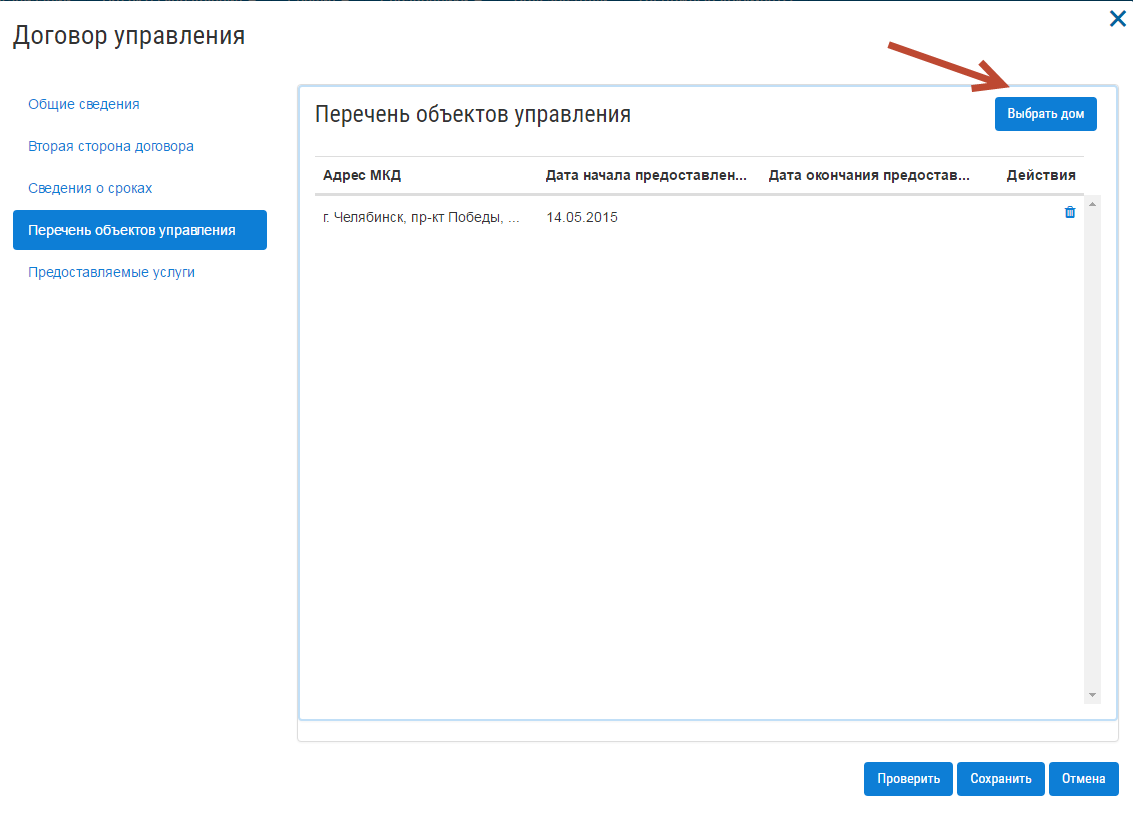
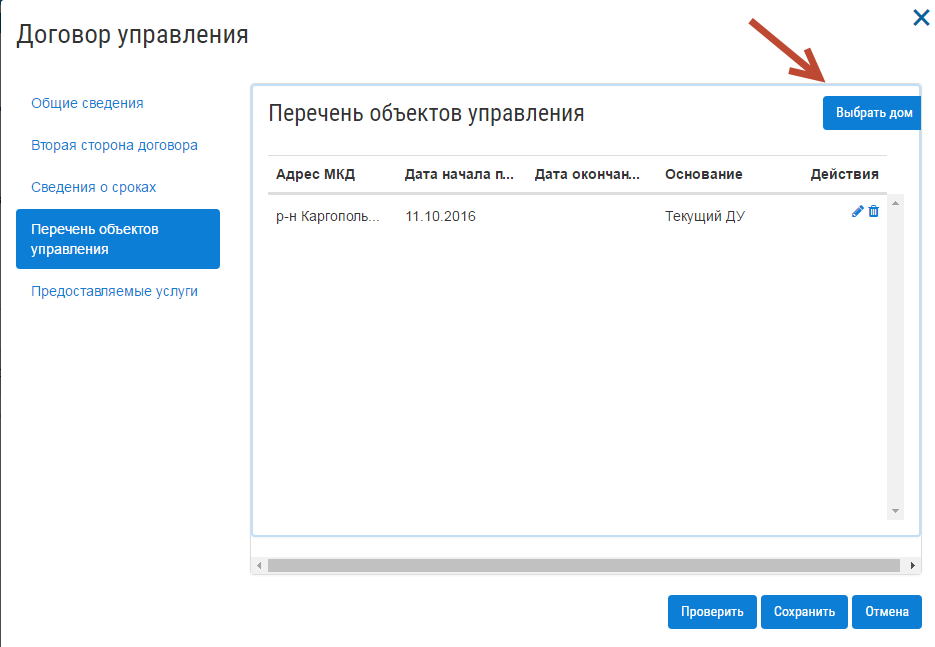
release-1.3

diff --git a/docs/source/04-management-agreements/4.1.rst b/docs/source/04-management-agreements/4.1.rst
@@ -272,8 +272,11 @@
 3. Заполнить поля. Прикрепить документы договора управления в блоке «Договор на уравление и приложения». Для добавления дополнительных соглашений, прикрепить документы в блоке «Дополнительное соглашение». 
 Добавленные дополнительные соглашения, появятся в списке при выборе основания предоставления услуг. 
 
-4. На вкладке «Перечень объектов управления» нажать кнопку «Выбрать дом» для того, чтобы прикрепить многоквартирный дом/дома, которые относятся к создаваемому договору управления. 
 
+4. На вкладке «Перечень объектов управления» нажать кнопку «Выбрать дом» для того, чтобы прикрепить многоквартирный дом/дома, которые относятся к создаваемому договору управления. 
+При добавлении договора управления, необходимо указать основание. При создании договора управления, по умолчанию, устанавливается значение «Текущий ДУ».
+
+	
 	.. image:: ../_images/04-management-agreements/29.png
 	
 5. В открывшемся списке выбрать МКД.
@@ -293,7 +296,7 @@
 
 	.. image:: ../_images/04-management-agreements/91.png
 	
-Для добавления всех услуг в таблицу, нажать на кнопку «Добавить все». в Открывшемся окне указать основание предоставления услуг. Нажать кнопку «Сохранить».
+Для добавления всех услуг в таблицу, нажать на кнопку «Добавить все». в открывшемся окне указать основание предоставления услуг. Нажать кнопку «Сохранить».
 
 	.. image:: ../_images/04-management-agreements/92.png
 	
@@ -347,7 +350,9 @@
 
 2. Для создания платежного документа **с типом «Текущий»** нажать на кнопку «Создать документ» ->  «Текущий».
 
-Заполнить поля открывшейся формы. 
+Заполнить поля открывшейся формы. Поля и блоки отмеченные * , обязательны для заполнения. Для платежного документа с типом «Текущий», в блоке «Начисления» обязательно должны быть указаны услуги. 
+Если организация предостваляет только коммунальные услуги, необходимо заполнить блок «Коммунальные услуги».
+Если предоставляются только дополнительные услуги, необходимо заполнить блок «Дополнительные услуги». 
 
 Номер платежного документа формируется как: номер лицевого счета + дата выставления платежного документа (мм.гггг) + 0 (если тип платежного документа «Текущий»).
 
@@ -357,7 +362,7 @@
 
 Поля «Месяц» и «Год» автозаполняются значениями текущего года и месяца. Поля «Общая площадь для ЛС», «Кол-во проживающих», «Жилая площадь», «Отапливаемая площадь» автозаполняются значениями по выбранному лицевому счету.
 
-Если в системе, для выбранного лицевого счета не создан дом, платежный документ не будет создан.
+Если в системе, для выбранного лицевого счета не создан дом и договор управления (с указанием предоставлеых услуг), а ткаже управляющая организация, которая управляет домом, платежный документ не будет создан.
 
 Раздел «Платежные реквизиты» будет автозаполнен данными организации, которая управляет многоквартирным домом, адрес которого указан в платежном документе.
  
@@ -371,9 +376,12 @@
 
 3. Для создания платежного документа **с типом «Долговой»** нажать на кнопку «Создать документ» -> «Долговой».
 
-Заполнить поля открывшейся формы. 
+Заполнить поля открывшейся формы. Поля и блоки отмеченные * , обязательны для заполнения. Для платежного документа с типом «Долговой», в блоке «Задолженность» обязательно должны быть указаны данные по задолженности. 
+Если данные по задолженности только по коммунальным услугам, необходимо заполнить блок «Коммунальные услуги».
+Если данные по задолженности только по дополнительным услугам, неоходимо заполнить блок «Дополнительные услуги».   
+Если данные по задолженности только по капитальному ремонту, необходимо заполнить блок «Задолженность за капитальный ремонт».
 
-Номер платежного документа формируется как:номер лицевого счета + дата выставления платежного документа (мм.гггг) + 1 (если тип платежного документа «Долговой»).
+Номер платежного документа формируется как: номер лицевого счета + дата выставления платежного документа (мм.гггг) + 1 (если тип платежного документа «Долговой»).
 
 При выборе номера лицевого счета, значение адреса заполнится автоматически. 
 

diff --git a/docs/source/03-employment-section-organization/3.5.rst b/docs/source/03-employment-section-organization/3.5.rst
@@ -2,7 +2,8 @@
 -------------------
 
 После загрузки квитанций в «Управдом ЖКХ» (прогресс по загрузке можно отследить в разделе «Мониторинг статуса квитанций») автоматически создаются  платежные документы в разделе «Платежные документы». 
-Если в квитанции, отправленной на печать, указана информация по начислениям, так и по задолженности, в системе будут созданы два документа с типом «Текущий», и с типом «Долговой».
+Если в квитанции, отправленной на печать, указана информация как по начислениям, так и по задолженности, в системе будут созданы два документа с типом «Текущий», и с типом «Долговой».
+Для автоматического создания платежных документов, в системе должна быть создана организация, дом, договор управления, лицевой счет будет создан автоматически, при печати квитанций.
 
 **Для просмотра созданных платежных документов необходимо:**
 

diff --git a/docs/source/02-work-section-mkd/2.4.rst b/docs/source/02-work-section-mkd/2.4.rst
@@ -1,0 +1,20 @@
+Как раскрыть сведения по платежным документам?
+-------------------------------
+
+ **Общая схема работы:**
+
+
+**Как создать квитанцию вручную описано в разделе**  `разделе 4.1.5  <http://upravdomgkh.readthedocs.io/ru/release-1.2/04-management-agreements/index.html>`_. 
+
+Для того, чтобы опубликовать квитанции на ГИС ЖКХ, требуется:
+
+- Заполнить обязательные поля в платежном документе (обязательные поля отмечены *).
+
+- Выбрать из списка платежные документы, которые требуется опубликовать на ГИС ЖКХ. Документы статус которых «Не готов к отправке», не будут опубликованы. 
+
+	.. image:: ../_images/02-work-section-mkd/118.png
+
+- Нажать кнопку «Опубликовать».
+
+Платежные документы будут опубликованы на ГИС ЖКХ. Если во время публикации произошли ошибки, они будут отображены в разделе "Журнал событий".
+

diff --git a/docs/source/03-employment-section-organization/3.2.rst b/docs/source/03-employment-section-organization/3.2.rst
@@ -49,7 +49,7 @@
 
 	.. image:: ../_images/03-employment-section-organization/38.png
 
-8. Для того, чтобы открыть интерфейс принтера, кликните два раза левой кнопки мыши по значку по значку принтера в системном трее.
+8. Для того, чтобы открыть интерфейс принтера, кликните два раза левой кнопки мыши по значку принтера в системном трее.
 
 	.. image:: ../_images/03-employment-section-organization/37.png
 

diff --git a/docs/source/02-work-section-mkd/index.rst b/docs/source/02-work-section-mkd/index.rst
@@ -11,5 +11,5 @@
 
 .. include:: 2.3.rst
 
-
+.. include:: 2.4.rst
 
